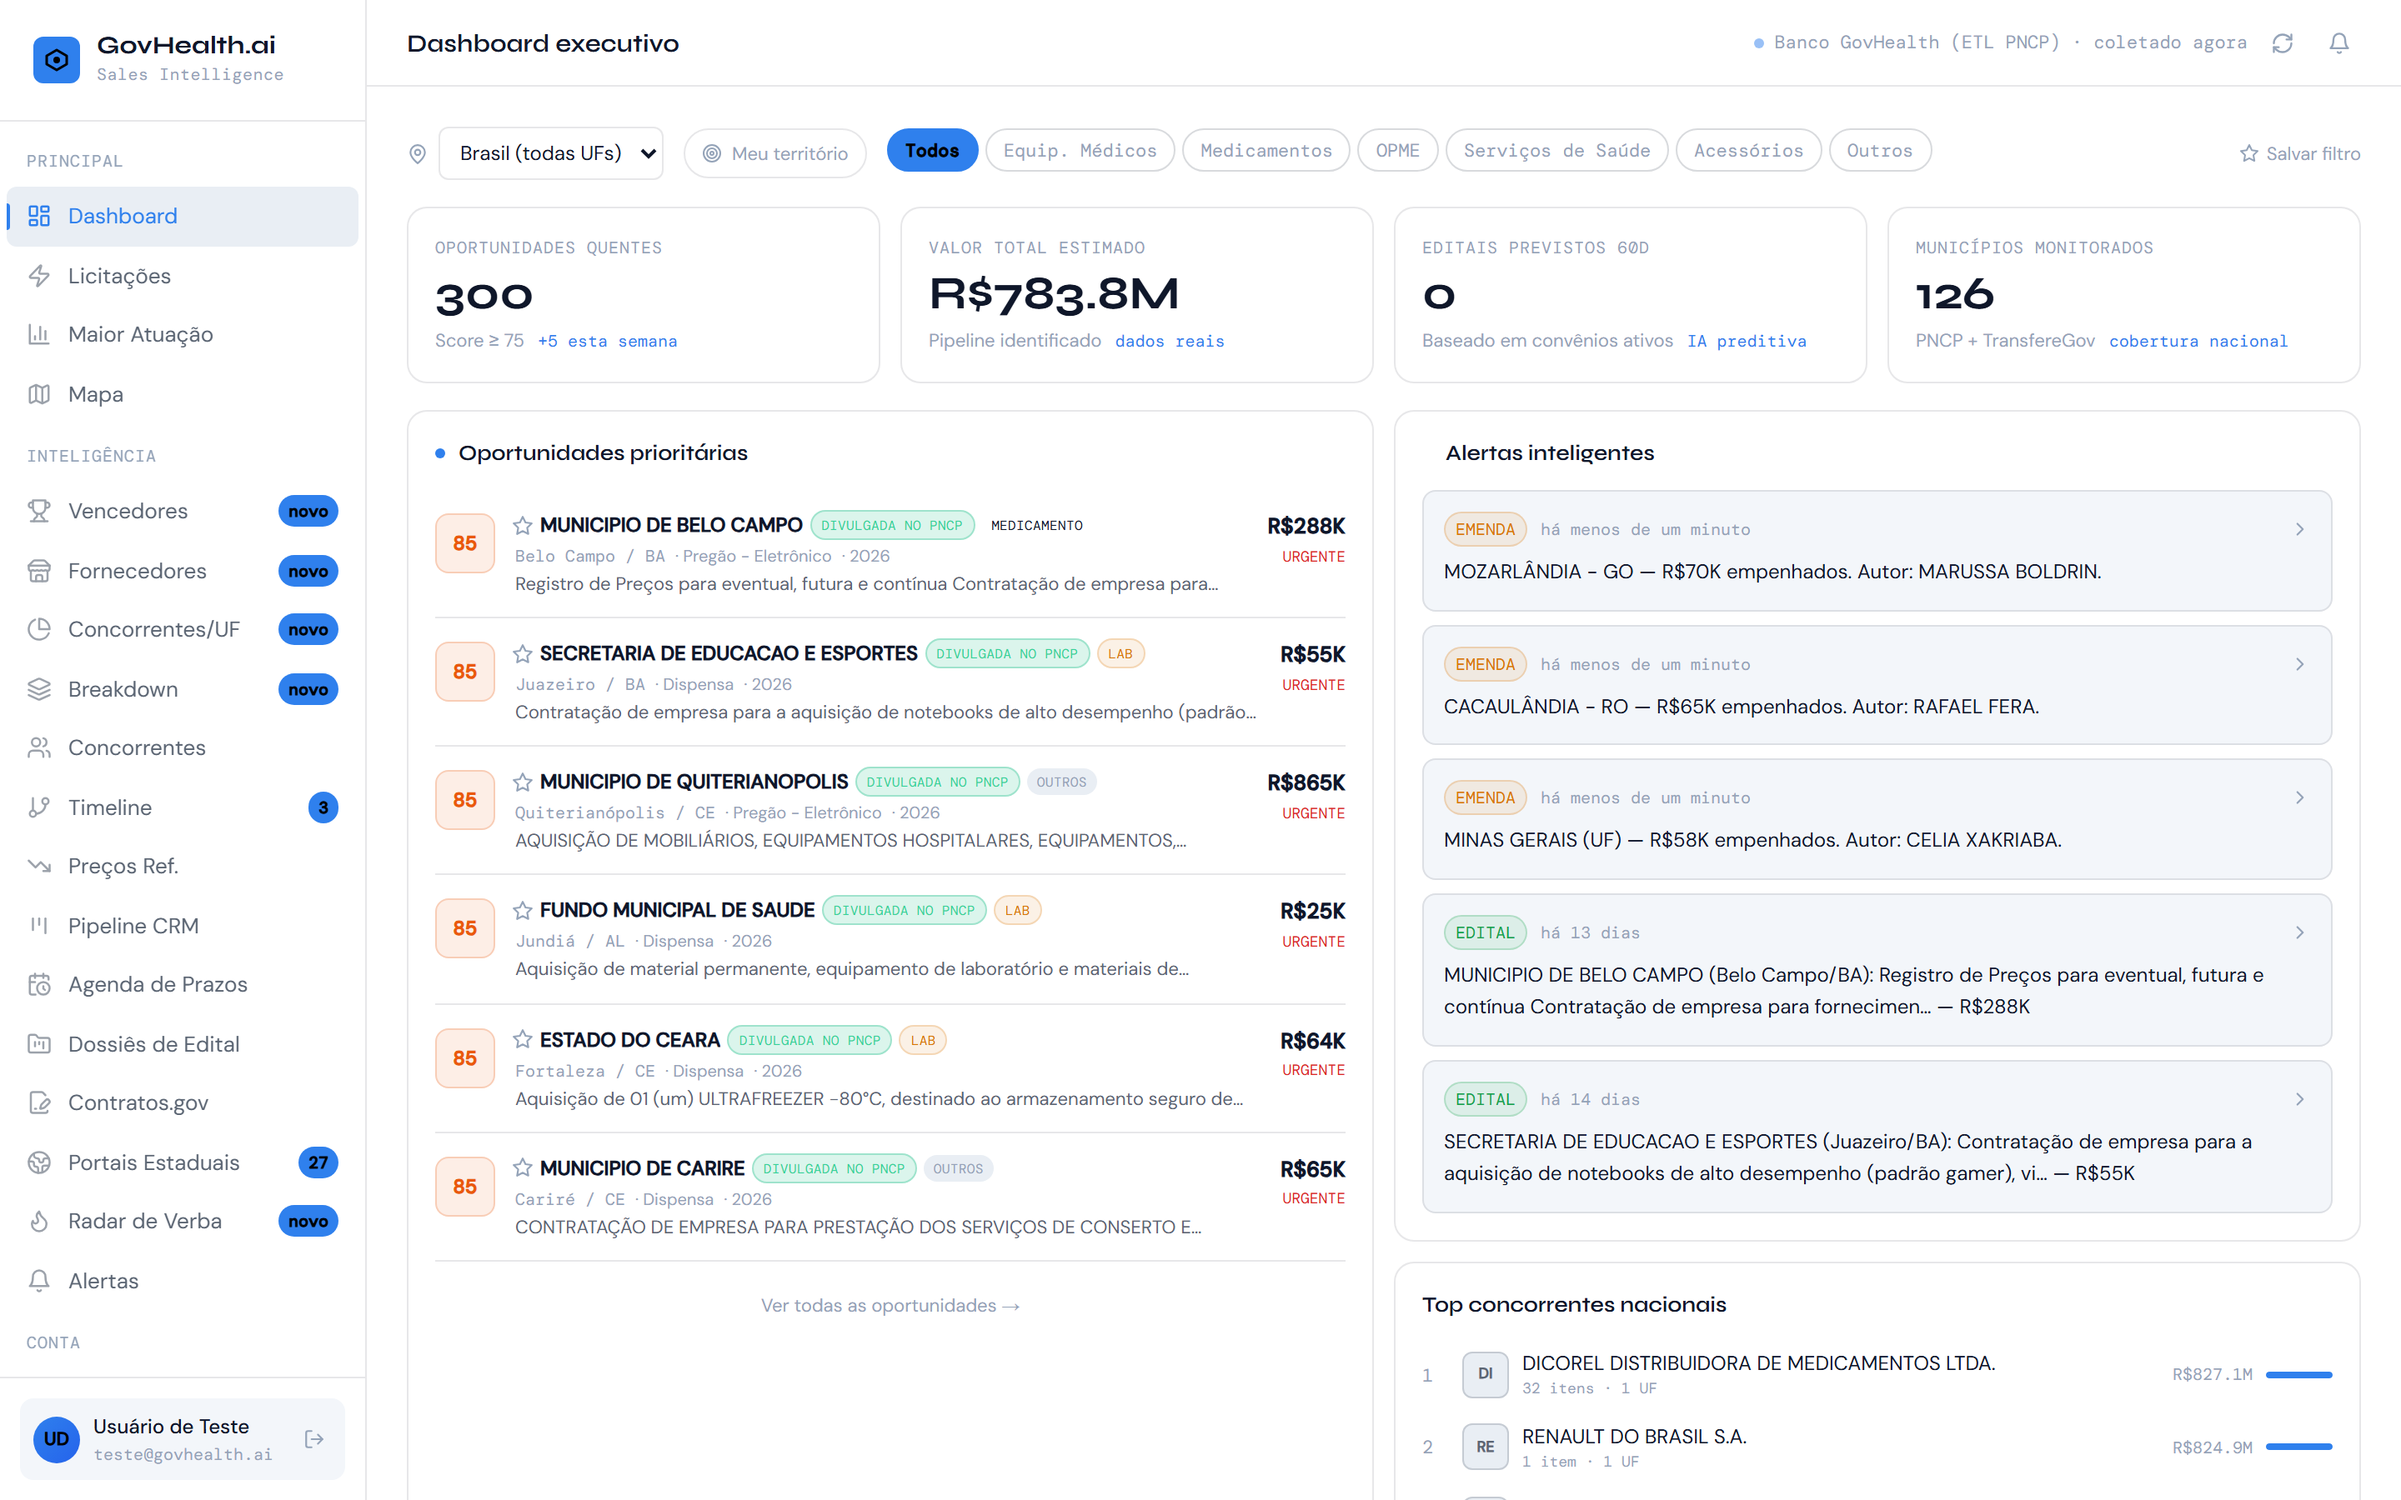
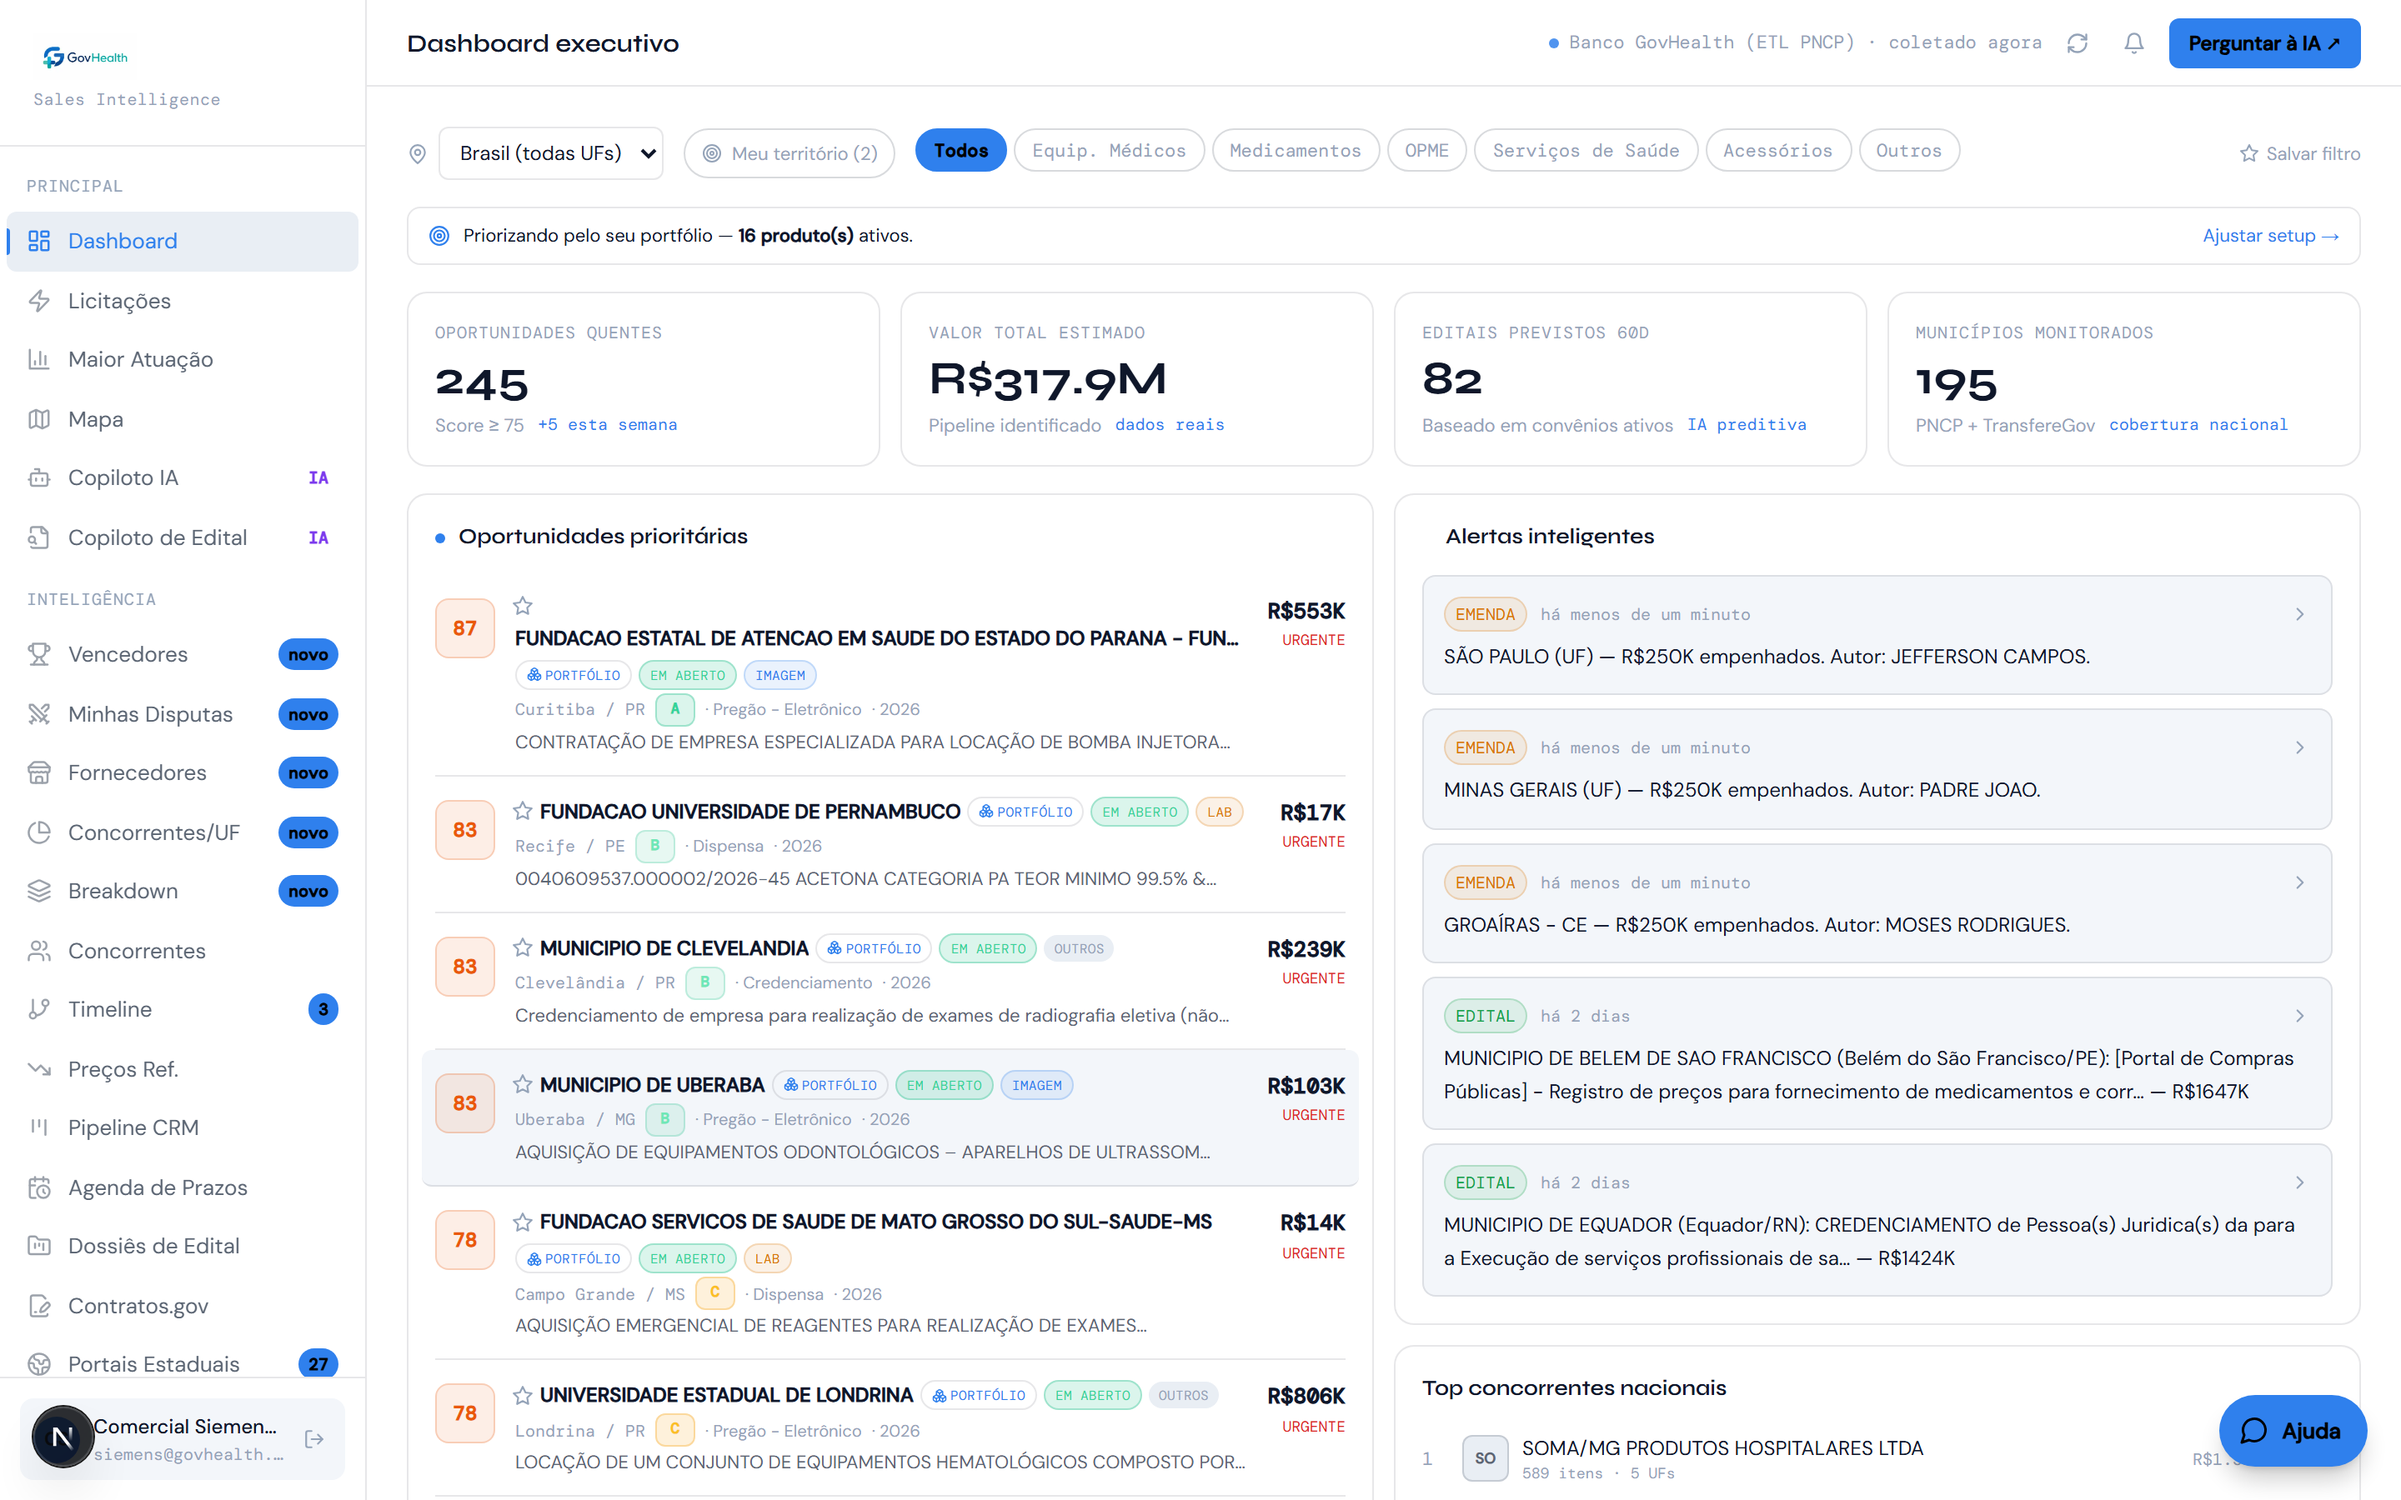
feat(landing): propaga gradiente da marca ao miolo + prints atualizados
Aplica o idioma visual (gradiente azul-teal) aos blocos restantes da landing:
faixa de numeros em gradiente, icones dos cards de recursos em chip gradiente
solido e numerais 01/02/03 do "como funciona" em gradiente.

Atualiza os screenshots da plataforma (Dashboard executivo e Mapa de
inteligencia) capturados em 2x, refletindo as varias atualizacoes recentes do
produto. Adiciona scripts/shots/capture.mjs (Playwright) para regerar os prints.

diff --git a/src/app/inicio/page.tsx b/src/app/inicio/page.tsx
@@ -141,7 +141,7 @@ export default async function InicioPage() {
           <div className="max-w-[1080px] mx-auto px-6 py-7 grid grid-cols-2 md:grid-cols-4 gap-6">
             {PROVAS.map((p, i) => (
               <div key={p.l} className="reveal text-center md:text-left" style={{ '--d': `${i * 0.06}s` } as React.CSSProperties}>
-                <div className="font-mono-custom font-semibold text-[22px] sm:text-[26px] text-strong tracking-tight">{p.v}</div>
+                <div className="font-mono-custom font-semibold text-[22px] sm:text-[26px] text-gradient-brand tracking-tight">{p.v}</div>
                 <div className="text-[12px] text-faint mt-0.5">{p.l}</div>
               </div>
             ))}
@@ -153,8 +153,8 @@ export default async function InicioPage() {
           <div className="grid md:grid-cols-3 gap-5">
             {RECURSOS.map(({ icon: Icon, titulo, texto }, i) => (
               <div key={titulo} className="reveal bg-bg2 border border-subtle rounded-2xl p-6 hover:border-accent/40 hover:shadow-lg hover:shadow-slate-200/50 transition-all" style={{ '--d': `${i * 0.08}s` } as React.CSSProperties}>
-                <div className="w-11 h-11 rounded-xl bg-accent/10 flex items-center justify-center mb-4">
-                  <Icon size={20} className="text-accent" />
+                <div className="w-11 h-11 rounded-xl bg-gradient-brand flex items-center justify-center mb-4 shadow-lg shadow-accent/20">
+                  <Icon size={20} className="text-white" />
                 </div>
                 <h3 className="font-heading font-semibold text-[16px] mb-1.5">{titulo}</h3>
                 <p className="text-[13.5px] text-muted leading-relaxed">{texto}</p>
@@ -170,7 +170,7 @@ export default async function InicioPage() {
             <div className="grid md:grid-cols-3 gap-8">
               {PASSOS.map((p, i) => (
                 <div key={p.n} className="reveal" style={{ '--d': `${i * 0.08}s` } as React.CSSProperties}>
-                  <div className="font-heading font-bold text-[40px] text-accent/30 leading-none mb-3">{p.n}</div>
+                  <div className="font-heading font-bold text-[40px] text-gradient-brand leading-none mb-3">{p.n}</div>
                   <h3 className="font-heading font-semibold text-[17px] mb-1.5">{p.t}</h3>
                   <p className="text-[13.5px] text-muted leading-relaxed">{p.d}</p>
                 </div>
